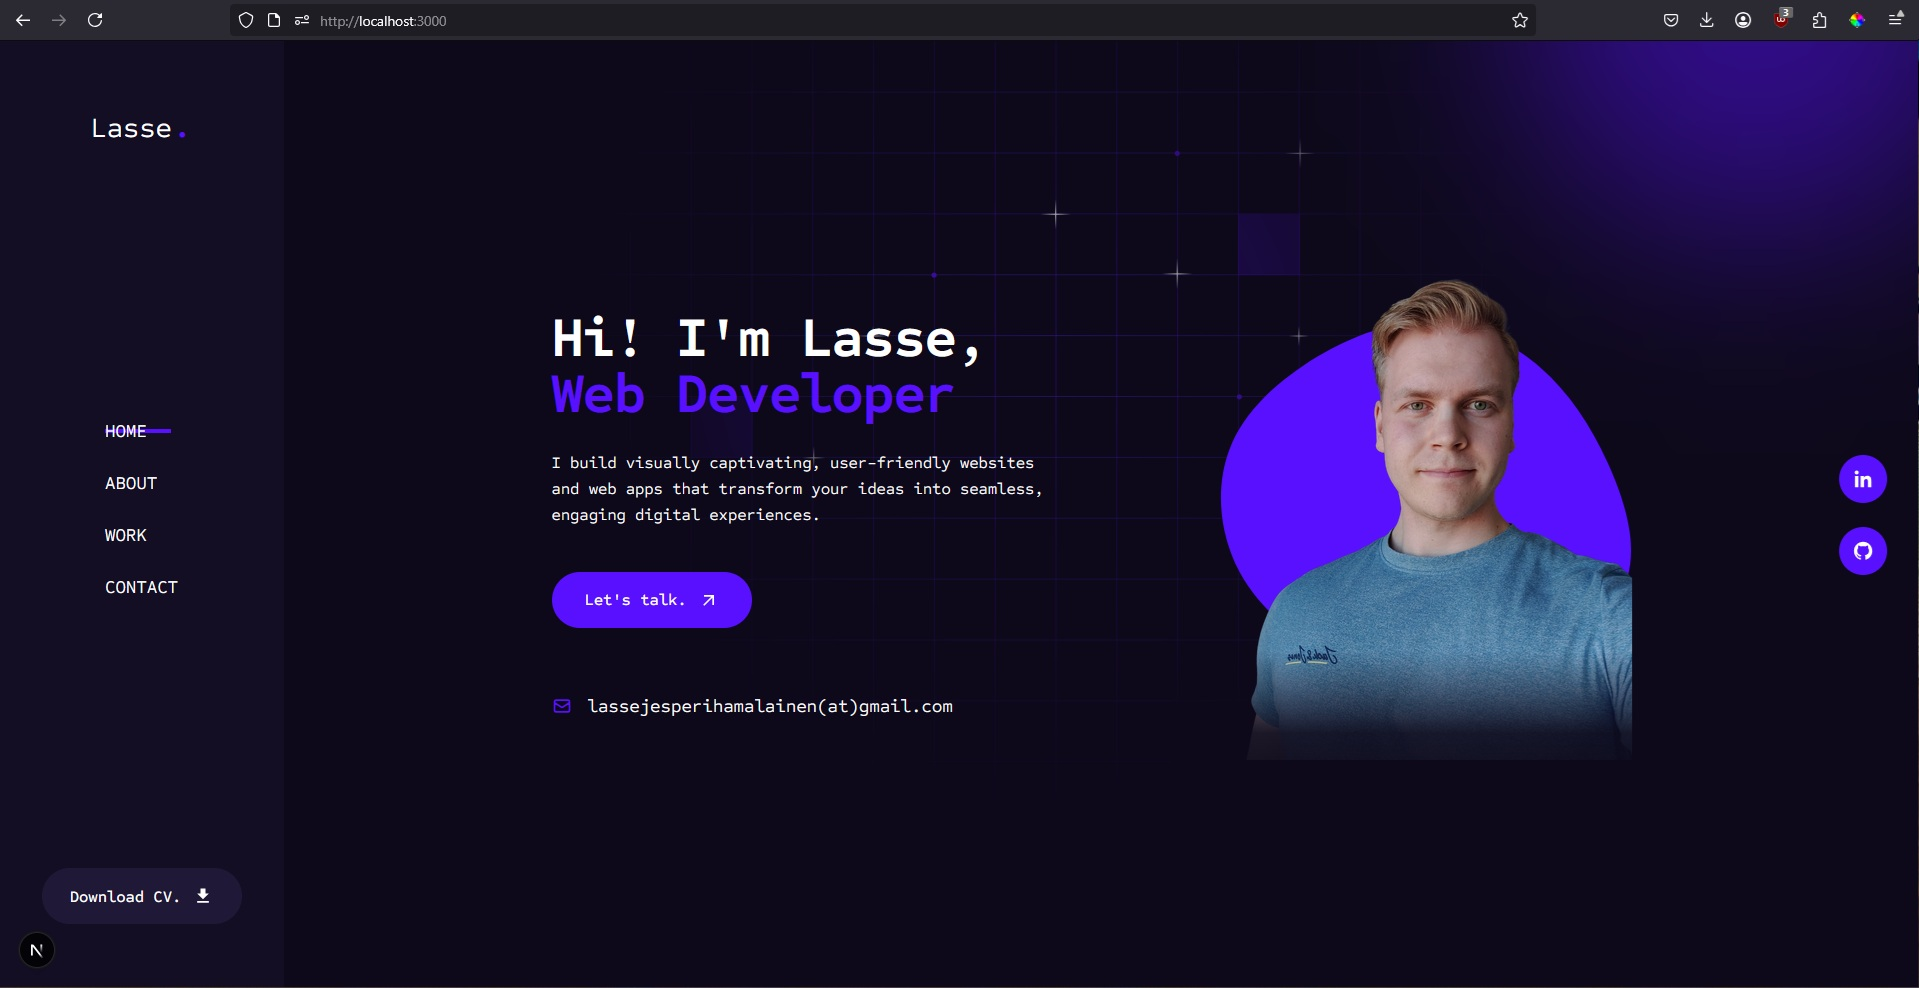
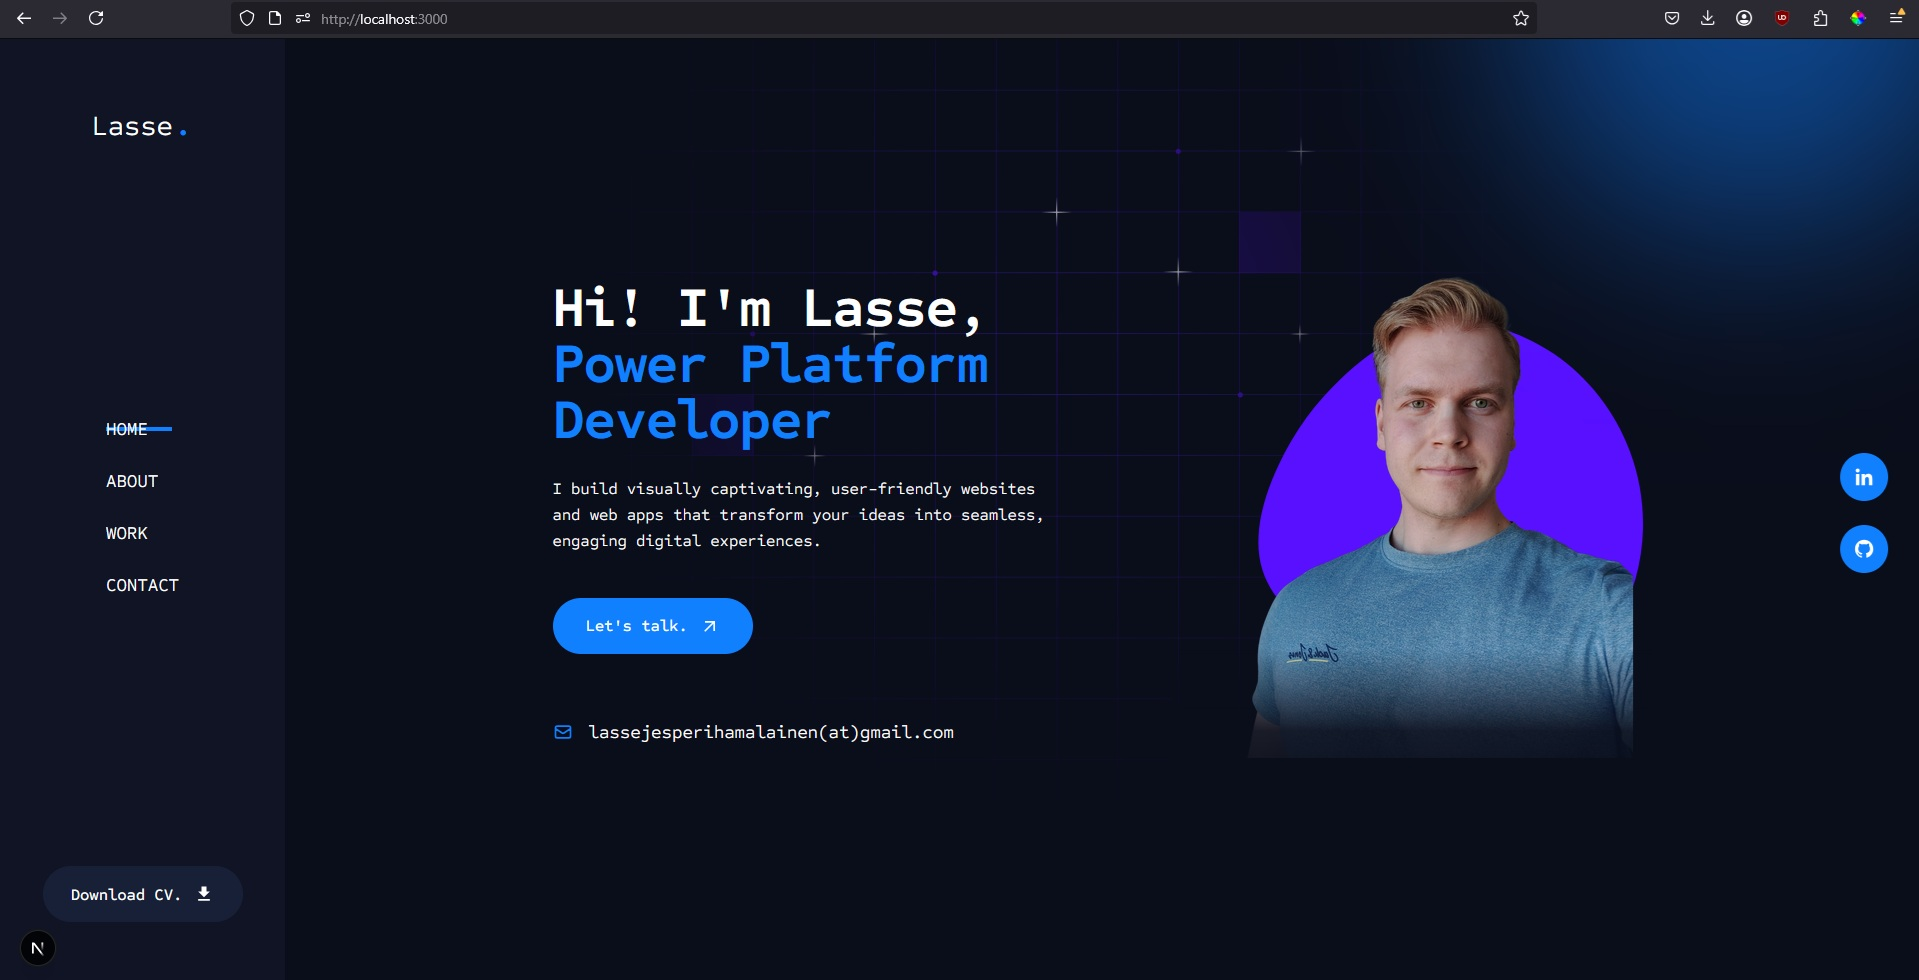
Final fixes and pictures

diff --git a/app/contact/page.jsx b/app/contact/page.jsx
@@ -21,6 +21,7 @@ import {
   HiOutlineMail,
   HiOutlineLocationMarker,
 } from "react-icons/hi";
+import Socials from "@/components/Socials";
 
 const serviceId = process.env.NEXT_PUBLIC_EMAILJS_SERVICE_ID;
 const templateId = process.env.NEXT_PUBLIC_EMAILJS_TEMPLATE_ID;
@@ -115,19 +116,22 @@ const Contact = () => {
         <div className="w-full">
           <div className="flex flex-col xl:flex-row gap-6">
             {/* info text */}
-            <div className="flex-1 xl:w-[600px] flex flex-col gap-12">
+            <div className="flex-1 xl:w-[600px] flex flex-col gap-4">
               <div>
                 <h2 className="h2 mb-6">
                   Get in <span className="text-accent">Touch</span>
                 </h2>
                 <p className="md:max-w-[600px] xl:max-w-[460px]">
-                  Lorem ipsum dolor sit amet consectetur, adipisicing elit.
-                  Cumque suscipit nostrum aspernatur, commodi odit architecto ex
-                  aperiam quo necessitatibus quaerat.
+                  The best way to contact me is via LinkedIn, but you can also
+                  reach out using the message box on the right.
                 </p>
               </div>
               {/* info */}
               <div className="flex flex-col gap-4 xl:mb-0">
+                <Socials
+                  containerStyles="flex gap-4 z-40 w-full transform -translate-x-[30px] px-3"
+                  iconStyles="w-[64px] h-[64px] text-[32px] text-accent hover:text-accent-hover transition-all flex items-center justify-center rounded-full cursor-pointer"
+                />
                 <div className="flex items-center gap-4 text-lg">
                   <span className="text-accent">
                     <HiOutlineMail className="text-2xl" />

diff --git a/components/Rectangle.jsx b/components/Rectangle.jsx
@@ -26,7 +26,7 @@ const Rectangle = () => {
         animate="animate"
         exit="exit"
         transition={{ delay: 0, duration: 0.35, ease: [0.63, 0, 0.17, 1] }}
-        className="fixed top-full w-screen h-screen z-30 bg-[#1b162b]"
+        className="fixed top-full w-screen h-screen z-30 bg-[#0f172a]"
       />
 
       <motion.div
@@ -35,7 +35,7 @@ const Rectangle = () => {
         animate="animate"
         exit="exit"
         transition={{ delay: 0.05, duration: 0.35, ease: [0.63, 0, 0.17, 1] }}
-        className="fixed top-full w-screen h-screen z-20 bg-[#241e36]"
+        className="fixed top-full w-screen h-screen z-20 bg-[#0f172a]"
       />
 
       <motion.div
@@ -44,7 +44,7 @@ const Rectangle = () => {
         animate="animate"
         exit="exit"
         transition={{ delay: 0.15, duration: 0.45, ease: [0.63, 0, 0.17, 1] }}
-        className="fixed top-full w-screen h-screen z-10 bg-[#241e36]"
+        className="fixed top-full w-screen h-screen z-10 bg-[#152042]"
       />
 
       <motion.div
@@ -53,7 +53,7 @@ const Rectangle = () => {
         animate="animate"
         exit="exit"
         transition={{ delay: 0.25, duration: 0.45, ease: [0.63, 0, 0.17, 1] }}
-        className="fixed top-full w-screen h-screen z-10 bg-[#2e2743]"
+        className="fixed top-full w-screen h-screen z-10 bg-[#1f2d5c]"
       />
     </>
   );

diff --git a/app/work/page.jsx b/app/work/page.jsx
@@ -72,7 +72,7 @@ const projects = [
       "I built this modern, fully responsive portfolio website to showcase my skills.",
     image: "/assets/work/Portfolio.jpg",
     link: "",
-    github: "",
+    github: "https://github.com/Jebbis/Portfolio",
     tech: ["React", "Next.js", "Tailwind CSS", "Framer Motion"],
   },
   {
@@ -89,10 +89,10 @@ const projects = [
   {
     id: 6,
     category: "Game dev",
-    title: "2D RPG",
+    title: "TBD game",
     description:
-      "I built this modern, fully responsive portfolio website to showcase my skills.",
-    image: "/assets/work/Portfolio.jpg",
+      "I built this game project just to learn game development with Godot. The game is in very early stages. It has some feateures as inventory and combat ",
+    image: "/assets/work/Animation.gif",
     link: "",
     github: "",
     tech: ["Godot"],

diff --git a/app/globals.css b/app/globals.css
@@ -11,12 +11,12 @@
   --breakpoint-2xl: 1520px;
 
   /* colors */
-  --color-primary: #0d091a;
-  --color-secondary: #140e25;
-  --color-accent: #5810ff;
-  --color-accent-hover: #4a0bde;
-  --color-tertiary: #201837;
-  --color-tertiary-hover: #271f40;
+  --color-primary: #0a0d1a; /* dark blue-black */
+  --color-secondary: #101425; /* deep navy blue */
+  --color-accent: #1080ff; /* vibrant blue accent */
+  --color-accent-hover: #0b6ede; /* slightly darker blue hover */
+  --color-tertiary: #182037; /* muted blue tone */
+  --color-tertiary-hover: #1f2740; /* slightly lighter for hover */
 
   /* fonts */
   --font-primary: "Sometype Mono";
